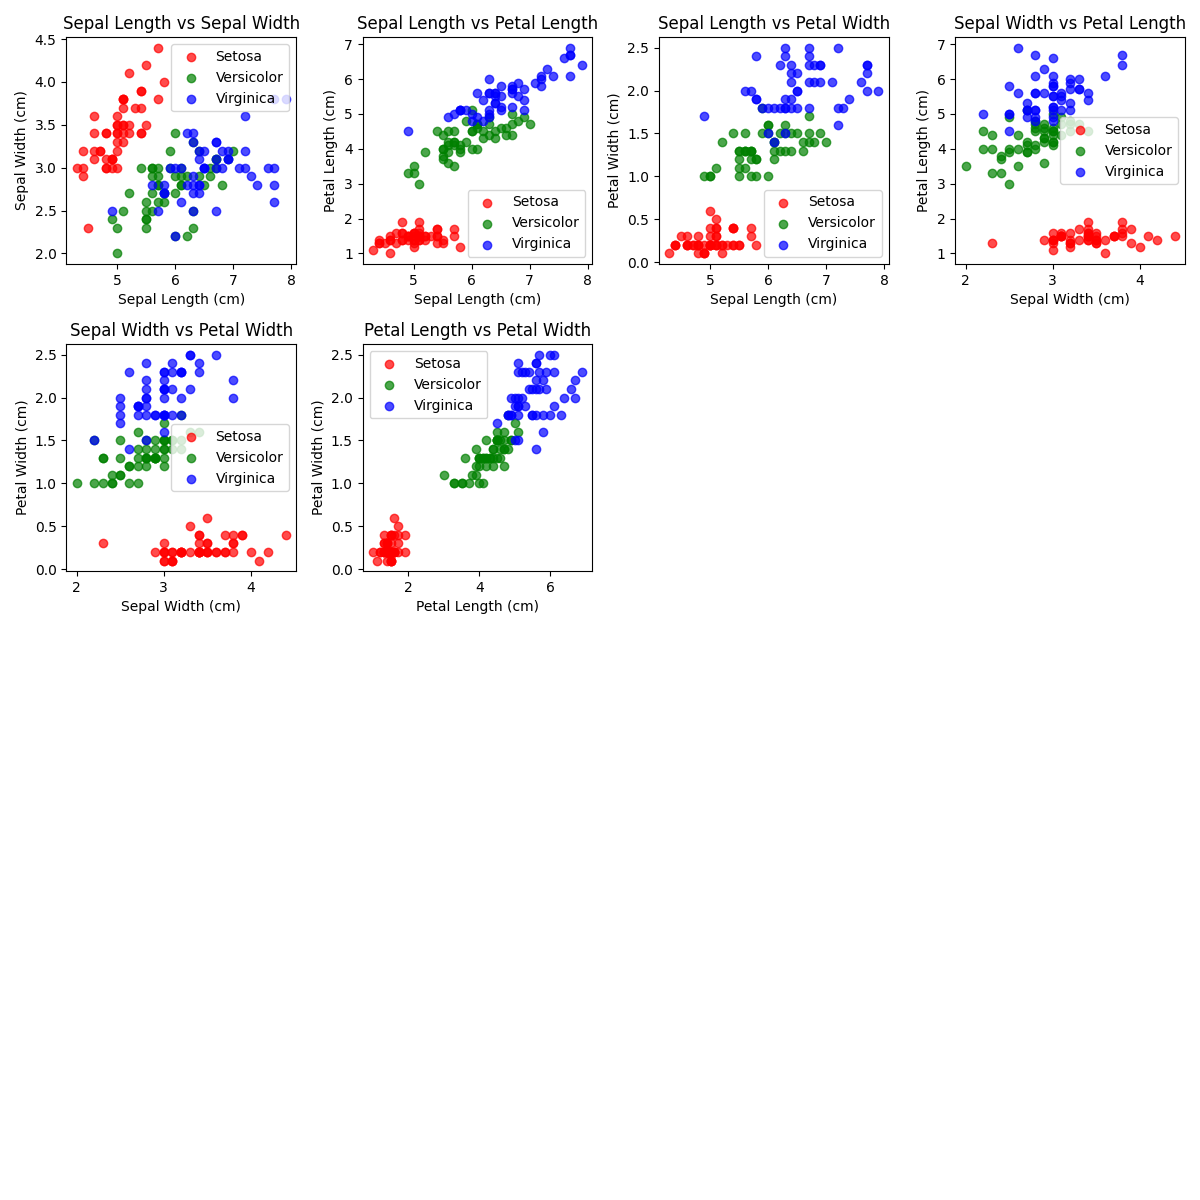
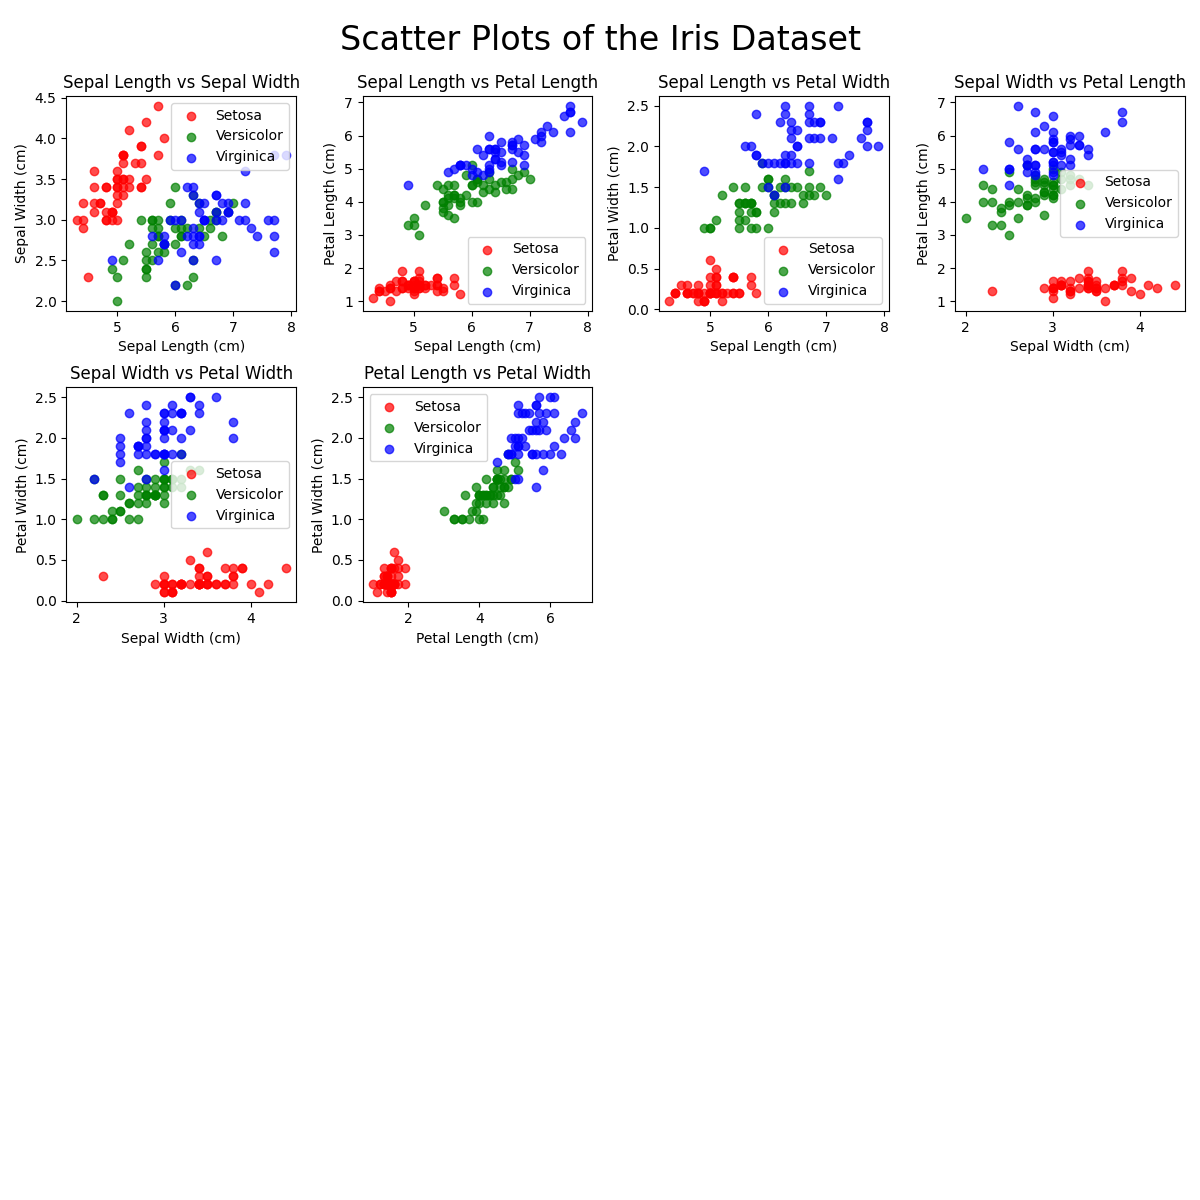
added title to the scatter plot looks good now

Changed region(s): [[0.0, 0.0, 0.74, 0.555], [0.74, 0.0, 0.9867, 0.3083]]

diff --git a/analysis_code.py b/analysis_code.py
@@ -294,8 +294,15 @@ def plot_scatter(data, variables, variables_titles, species, colours, labels, ou
             plt.legend()
             plot_index += 1
 
+
     # Adjust layout to prevent overlap
     plt.tight_layout()
+
+    # Create space at the top for the suptitle
+    plt.subplots_adjust(top=0.92) 
+
+    # Add a main title for the entire figure
+    plt.suptitle('Scatter Plots of the Iris Dataset', fontsize=24, y=0.98)
 
     # Save the plot as a PNG file
     plt.savefig(output_dir /f'iris_scatter.png')
